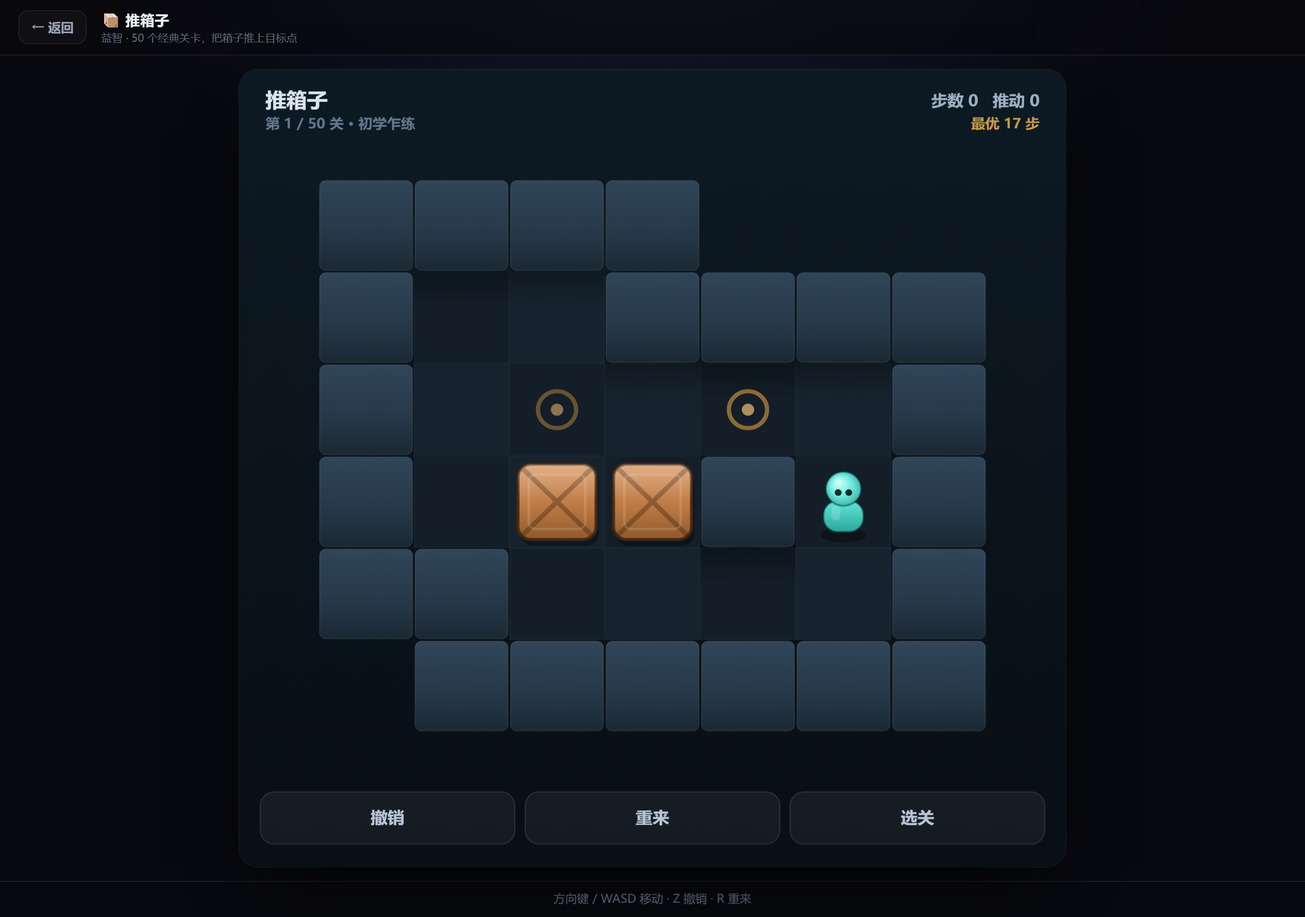
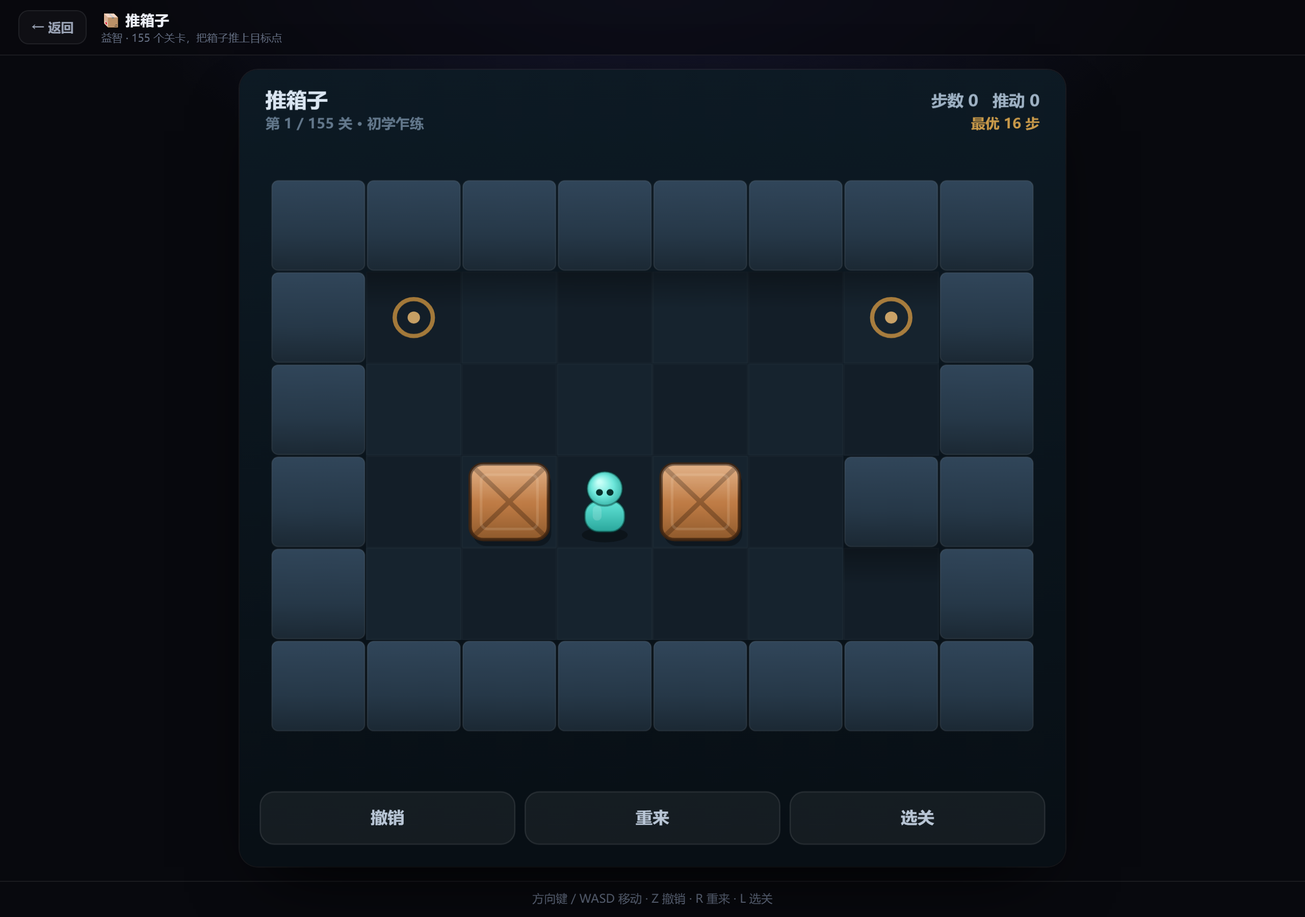
feat: 推箱子扩容至 155 关，选关面板支持分页
- 新增 105 关，由「逆向拉箱」算法生成（数学上保证可解），
  覆盖 2~4 箱、7x7~10x10 棋盘、含内部柱子变化
- 全部 155 关经 A*（曼哈顿启发）求解精确最优步数并标注，
  按最优步数升序重排，五档难度（初学乍练→大师试炼）各 31 关
- 选关面板重构：10x5 分页网格（4 页）+ 上一页/下一页按钮 + 方向键翻页
- 修复：Esc 在游戏页被 core.js 拦截返回大厅，选关快捷键改为 L；
  面板打开时 Esc/L 均可关闭
- 首页快捷入口与 README 文案同步 155 关

diff --git a/js/games/sokoban.js b/js/games/sokoban.js
@@ -1,60 +1,165 @@
 /* ==========================================================
-   sokoban.js — 推箱子（50 关）
+   sokoban.js — 推箱子（155 关）
    ========================================================== */
 (function () {
   "use strict";
 
   const SOKOBAN_LEVELS = [
-  {t:0,b:17,p:3,r:["####","#  ####","# . . #","# $$#@#","##    #"," ######"]},
-  {t:0,b:33,p:3,r:["#####","#   #","# @ #","# $$###","##. . #"," #    #"," ######"]},
-  {t:0,b:33,p:4,r:["####","# .#","#  ###","#*@  #","#  $ #","#  ###","####"]},
-  {t:0,b:47,p:4,r:[" ######","##    #","#  ## #","# # $ #","#  * .#","## #@##"," #   #"," #####"]},
-  {t:0,b:23,p:4,r:["#####","#   ###","#  $  #","##* . #"," #   @#"," ######"]},
-  {t:0,b:60,p:5,r:["  ####","  #  #","  #@ #","  #  #","### ####","#    * #","#  $   #","#####. #","    ####"]},
-  {t:0,b:56,p:6,r:["#######","#  *  #","#     #","## # ##"," #$@.#"," #   #"," #####"]},
-  {t:0,b:17,p:4,r:["  ####"," ##  #","##@$.##","# $$  #","# . . #","###   #","  #####"]},
-  {t:0,b:30,p:6,r:["#####","#.  ##","#@$$ #","##   #"," ##  #","  ##.#","   ###"]},
-  {t:0,b:37,p:6,r:["     ###","######@##","#    .* #","#   #   #","#####$# #","    #   #","    #####"]},
-  {t:1,b:97,p:6,r:["  ######","  # ..@#","  # $$ #","  ## ###","   # #","   # #","#### #","#    ##","# #   #","#   # #","###   #","  #####"]},
-  {t:1,b:50,p:6,r:["######","#   .#","# ## ##","#  $$@#","# #   #","#.  ###","#####"]},
-  {t:1,b:41,p:6,r:["########","#   .. #","#  @$$ #","##### ##","   #  #","   #  #","   #  #","   ####"]},
-  {t:1,b:34,p:6,r:["####","#  ###","#    ###","#  $*@ #","### .# #","  #    #","  ######"]},
-  {t:1,b:44,p:5,r:["####","#  ####","#.*$  #","# .$# #","## @  #"," #   ##"," #####"]},
-  {t:1,b:35,p:5,r:[" ####","##  ###","#     #","#.**$@#","#   ###","##  #"," ####"]},
-  {t:1,b:21,p:5,r:["####","#  ###","# $$ #","#... #","# @$ #","#   ##","#####"]},
-  {t:1,b:20,p:5,r:[" #####"," #   #","##   ##","# $$$ #","# .+. #","#######"]},
-  {t:1,b:25,p:5,r:["#####","# @ #","#...#","#$$$##","#    #","#    #","######"]},
-  {t:1,b:41,p:6,r:[" #####"," # @ #"," #   #","###$ #","# ...#","# $$ #","###  #","  ####"]},
-  {t:2,b:35,p:9,r:["# #####","  #   #","###$$@#","#   ###","#     #","# . . #","#######"]},
-  {t:2,b:37,p:6,r:[" #####","##. .##","# * * #","#  #  #","# $ $ #","## @ ##"," #####"]},
-  {t:2,b:85,p:9,r:["#####","#   ####","# # # .#","#    $ ###","### #$.  #","#   #@   #","# # ######","#   #","#####"]},
-  {t:2,b:47,p:7,r:["   ####","   #  #","   #@ #","####$.#","#   $.#","# # $.#","#    ##","######"]},
-  {t:2,b:23,p:7,r:["########","#      #","# .**$@#","#      #","#####  #","    ####"]},
-  {t:2,b:41,p:11,r:["  ####","###  ####","#     $ #","# #  #$ #","# . .#@ #","#########"]},
-  {t:2,b:37,p:8,r:["##########","#        #","# ##.### #","# # $$ . #","# . @$## #","#####    #","    ######"]},
-  {t:2,b:26,p:6,r:["  ####","### @#","#  $ #","#  *.#","#  *.#","#  $ #","###  #","  ####"]},
-  {t:2,b:71,p:11,r:["#######","#     #","#. .  #","# ## ##","#  $ #","###$ #","  #@ #","  #  #","  ####"]},
-  {t:2,b:83,p:12,r:["  #######","###     #","# $ $   #","# ### #####","# @ . .   #","#   ###   #","##### #####"]},
-  {t:3,b:76,p:13,r:["  ####","###  #####","#  $  @..#","# $    # #","### #### #","  #      #","  ########"]},
-  {t:3,b:89,p:11,r:["      #####","      #.  #","      #.# #","#######.# #","# @ $ $ $ #","# # # # ###","#       #","#########"]},
-  {t:3,b:25,p:6,r:[" #######"," #     #"," # .$. #","## $@$ #","#  .$. #","#      #","########"]},
-  {t:3,b:41,p:10,r:["#######","#. #  #","#  $  #","#. $#@#","#  $  #","#. #  #","#######"]},
-  {t:3,b:30,p:8,r:["  ####","###  ####","#       #","#@$***. #","#       #","#########"]},
-  {t:3,b:104,p:14,r:["     #####","     #   ##","     #    #"," ######   #","##     #. #","# $ $ @  ##","# ######.#","#        #","##########"]},
-  {t:3,b:78,p:14,r:["  ######","  #    #","  # ##@##","### # $ #","# ..# $ #","#       #","#  ######","####"]},
-  {t:3,b:64,p:15,r:["########","# @ #  #","#      #","#####$ #","    #  ###"," ## #$ ..#"," ## #  ###","    ####"]},
-  {t:3,b:47,p:15,r:["#####","#   ###","#. .  #","#   # #","## #  #"," #@$$ #"," #    #"," #  ###"," ####"]},
-  {t:3,b:64,p:12,r:["######","#  @ #","#  # ##","# .#  ##","# .$$$ #","# .#   #","####   #","   #####"]},
-  {t:4,b:52,p:17,r:["####","#. ##","#.@ #","#. $#","##$ ###"," # $  #"," #    #"," #  ###"," ####"]},
-  {t:4,b:61,p:18,r:["     ####","     # @#","     #  #","###### .#","#   $  .#","#  $$# .#","#    ####","###  #","  ####"]},
-  {t:4,b:71,p:21,r:["      ###","##### #.#","#   ###.#","#   $ #.#","# $  $  #","#####@# #","    #   #","    #####"]},
-  {t:4,b:82,p:21,r:["######","# @  #","# $# #","# $  #","# $ ##","### ####"," #  #  #"," #...  #"," #     #"," #######"]},
-  {t:4,b:77,p:19,r:[" ####","##  #","#. $#","#.$ #","#.$ #","#.$ #","#. $##","#   @#","##   #"," #####"]},
-  {t:4,b:107,p:29,r:["###### #####","#    ###   #","# $$     #@#","# $ #...   #","#   ########","#####"]},
-  {t:4,b:169,p:28,r:[" #########"," #       #","##@##### #","#  #   # #","#  #   $.#","#  ##$##.#","##$##  #.#","#   $  #.#","#   #  ###","########"]},
-  {t:4,b:100,p:37,r:[" ####"," #  ####"," #     ##","## ##   #","#. .# @$##","#   # $$ #","#  .#    #","##########"]},
-  {t:4,b:156,p:35,r:["####","#  ############","# $ $ $ $ $ @ #","# .....       #","###############"]},
-  {t:4,b:null,p:42,r:["############","#          #","# ####### @##","# #         #","# #  $   #  #","# $$ #####  #","###  # # ...#","  #### #    #","       ######"]}
+  {t:0,b:16,r:["########","#.    .#","#      #","# $@$ ##","#      #","########"]},
+  {t:0,b:16,r:["########","#      #","# @$  .#","# $    #","#      #","#  #  .#","########"]},
+  {t:0,b:16,r:["########","#  #   #","#      #","# $  $ #","# @    #","# . .  #","########"]},
+  {t:0,b:16,r:["#######","#     #","# $   #","# # $.#","#   @ #","# .   #","#######"]},
+  {t:0,b:16,r:["########","#      #","#  $ $@#","#     ##","#. .   #","########"]},
+  {t:0,b:16,r:["#######","#     #","# @   #","#.$   #","#  #$.#","#     #","#######"]},
+  {t:0,b:16,r:["########","#.   # #","#      #","# @$   #","# .  $ #","#      #","########"]},
+  {t:0,b:16,r:["########","#     .#","#      #","# $  $ #","#    @.#","#      #","########"]},
+  {t:0,b:16,r:["########","#  .  .#","# $    #","#    $@#","#  #   #","########"]},
+  {t:0,b:17,r:["####","#  ####","# . . #","# $$#@#","##    #"," ######"]},
+  {t:0,b:17,r:["  ####"," ##  #","##@$.##","# $$  #","# . . #","###   #","  #####"]},
+  {t:0,b:17,r:["########","#      #","#  $   #","#    $ #","#.   @ #","# .   ##","########"]},
+  {t:0,b:17,r:["#######","#     #","#  $@ #","#    .#","#  # $#","#  .  #","#######"]},
+  {t:0,b:17,r:["#######","#.    #","#   @ #","#.# $ #","#$    #","#     #","#######"]},
+  {t:0,b:17,r:["########","#    . #","#   $  #","# $ # .#","# @    #","########"]},
+  {t:0,b:17,r:["#######","#  .  #","#   $##","#     #","#  $@ #","#  .  #","#######"]},
+  {t:0,b:17,r:["########","#      #","#     $#","# $ #  #","# @ . .#","########"]},
+  {t:0,b:17,r:["########","#.  $@ #","#      #","# $# . #","#      #","########"]},
+  {t:0,b:17,r:["########","#      #","#  @$  #","#      #","#. . $ #","########"]},
+  {t:0,b:17,r:["#######","# . @ #","#   $.#","#     #","# $   #","# #   #","#######"]},
+  {t:0,b:18,r:["########","#     .#","# $    #","#   $@ #","##    .#","########"]},
+  {t:0,b:18,r:["#######","#     #","#.$#@ #","#   $ #","#     #","#  .  #","#######"]},
+  {t:0,b:18,r:["########","#.     #","#@$    #","#      #","#    $ #","#.     #","########"]},
+  {t:0,b:20,r:[" #####"," #   #","##   ##","# $$$ #","# .+. #","#######"]},
+  {t:0,b:20,r:["########","# .  $ #","#  @$  #","#.   # #","#      #","########"]},
+  {t:0,b:21,r:["####","#  ###","# $$ #","#... #","# @$ #","#   ##","#####"]},
+  {t:0,b:21,r:["#########","#    .  #","#.$  $@ #","#  #    #","#  . #. #","#  $    #","#       #","#     $ #","#       #","#########"]},
+  {t:0,b:22,r:["#########","##@    .#","# $   $ #","#       #","#      $#","#    .  #","#  .    #","#########"]},
+  {t:0,b:22,r:["#########","#   .   #","# $    .#","#  .#   #","#  $@ $ #","#      ##","#########"]},
+  {t:0,b:22,r:["########","#.     #","# .@ . #","# $$   #","#      #","# #  $ #","#      #","########"]},
+  {t:0,b:22,r:["#########","#       #","#  . $  #","# $ . . #","# @     #","# $    ##","#       #","#########"]},
+  {t:1,b:22,r:["########","#      #","#  $ $ #","#. #   #","#  .$@ #","#.     #","#      #","########"]},
+  {t:1,b:22,r:["########","# . @. #","#   $  #","# $  . #","#      #","# $    #","#      #","########"]},
+  {t:1,b:23,r:["#####","#   ###","#  $  #","##* . #"," #   @#"," ######"]},
+  {t:1,b:23,r:["########","#      #","# .**$@#","#      #","#####  #","    ####"]},
+  {t:1,b:23,r:["#########","#     . #","# $     #","#  #  . #","# $   $ #","#  .  @ #","#########"]},
+  {t:1,b:23,r:["#########","#       #","#    $  #","#  .    #","#     $ #","#    $@ #","#.     .#","#########"]},
+  {t:1,b:23,r:["#########","#     . #","#     $ #","# $   # #","#. $+   #","#       #","#########"]},
+  {t:1,b:23,r:["#########","#.      #","#  $@ $ #","#  .$ # #","#       #","#.    # #","#       #","#########"]},
+  {t:1,b:23,r:["########","#     .#","#     $#","#   $  #","# # @ .#","# $    #","#     .#","########"]},
+  {t:1,b:23,r:["#########","# .     #","#  #    #","#.  $ $ #","#   @  ##","#    .$ #","#       #","#########"]},
+  {t:1,b:23,r:["##########","#        #","#   @$. $#","##       #","#    $  .#","#.     . #","#      $ #","#  #     #","##########"]},
+  {t:1,b:23,r:["##########","#     #  #","# #    $ #","#   .   .#","#    $#$ #","#    @.  #","#   . $  #","#        #","##########"]},
+  {t:1,b:23,r:["##########","#      . #","#        #","#  .$@$  #","# .      #","# $  $   #","#    #   #","# .      #","##########"]},
+  {t:1,b:24,r:["#########","#       #","#.  + $ #","#  .$ # #","#     $ #","#       #","#########"]},
+  {t:1,b:24,r:["#########","#  .    #","# $   @ #","#     $ #","#  #    #","# # .   #","# $  .  #","#########"]},
+  {t:1,b:24,r:["#########","#       #","#       #","#.      #","#       #","# ##    #","# $  .$ #","#@$     #","# $ .  .#","#########"]},
+  {t:1,b:25,r:["#####","# @ #","#...#","#$$$##","#    #","#    #","######"]},
+  {t:1,b:25,r:[" #######"," #     #"," # .$. #","## $@$ #","#  .$. #","#      #","########"]},
+  {t:1,b:25,r:["#########","#       #","#   @$  #","#.      #","#  .    #","#     $ #","#   . $ #","#########"]},
+  {t:1,b:25,r:["#########","#       #","#  $    #","#  # $# #","#    @  #","#.      #","# .$   .#","#########"]},
+  {t:1,b:25,r:["#########","#      .#","#   $   #","#  #    #","#.$     #","#    .  #","#       #","# $@$   #","#    .  #","#########"]},
+  {t:1,b:25,r:["#########","# .     #","#       #","# $@ .  #","#  $ #$ #","#    #  #","# .     #","# $   . #","#########"]},
+  {t:1,b:25,r:["##########","##       #","#   .    #","#      $ #","# $.     #","#      $ #","# .     .#","#    @$  #","#        #","##########"]},
+  {t:1,b:26,r:["  ####","### @#","#  $ #","#  *.#","#  *.#","#  $ #","###  #","  ####"]},
+  {t:1,b:26,r:["#########","#      .#","# $  .  #","#       #","# $@$   #","#      .#","#########"]},
+  {t:1,b:26,r:["########","#. $@  #","#      #","#.#  # #","#    $ #","#.   $ #","########"]},
+  {t:1,b:26,r:["#########","#       #","# $# $@ #","#       #","#     . #","#   . $ #","#  .    #","#########"]},
+  {t:1,b:26,r:["#########","#       #","##$$    #","#  .   .#","#       #","# $     #","# @# .  #","#########"]},
+  {t:1,b:26,r:["#########","#   # .##","#  $    #","#      .#","#  $    #","#.      #","#$      #","#@$   . #","#########"]},
+  {t:1,b:26,r:["#########","#      .#","# . $ $ #","# $   . #","# @#   .#","#       #","# $     #","#       #","#########"]},
+  {t:1,b:26,r:["#########","#       #","# $ .$  #","##      #","#       #","#   .   #","#  $ .  #","#  @  $ #","#    .  #","#########"]},
+  {t:2,b:27,r:["#########","#       #","#  $ $ ##","#       #","#.      #","#   @$. #","#.     ##","#########"]},
+  {t:2,b:27,r:["#########","# .   $ #","#.    $ #","#     # #","# $     #","# @     #","#      .#","#########"]},
+  {t:2,b:27,r:["##########","#  .     #","# $ .    #","#    $   #","# $  . # #","##       #","#       .#","#   $    #","#   @ #  #","##########"]},
+  {t:2,b:27,r:["#########","#       #","#  $ #  #","#  .    #","#    .  #","#     $ #","# $$. + #","# #     #","#########"]},
+  {t:2,b:27,r:["##########","#        #","#        #","#        #","#  .   @ #","#   #  $##","#  .$ #  #","#    $   #","# $  .  .#","##########"]},
+  {t:2,b:28,r:["#########","#    . .#","# $     #","#   @$  #","#    .  #","# $     #","#       #","#########"]},
+  {t:2,b:28,r:["########","#      #","# $$ . #","# # .  #","#   $@.#","#      #","########"]},
+  {t:2,b:28,r:["#########","#       #","#$$     #","#.#    ##","#       #","#@$     #","#    .  #","# . . $ #","#       #","#########"]},
+  {t:2,b:28,r:["##########","#     .  #","#.   $  .#","#       ##","#        #","#    $   #","#  $ +$  #","#        #","##########"]},
+  {t:2,b:28,r:["##########","#        #","# #      #","#.     # #","#    .   #","#  . $ $ #","#      @ #","#   $$   #","#.      ##","##########"]},
+  {t:2,b:28,r:["#########","#       #","# $$  . #","#      .#","#     $ #","#  +$   #","#   # # #","# .     #","#########"]},
+  {t:2,b:29,r:["#########","#       #","#   .#$ #","#    #  #","#@$     #","#  .    #","#.    $ #","#########"]},
+  {t:2,b:29,r:["########","#   .$ #","# .  # #","# $  @ #","# #  $ #","#      #","#   .  #","########"]},
+  {t:2,b:29,r:["#########","#      .#","# $   . #","#     $@#","#      $#","# # $ . #","#.  # # #","#       #","#########"]},
+  {t:2,b:29,r:["##########","#.       #","# # . $  #","#.       #","#$.      #","# $      #","#      $@#","#        #","##########"]},
+  {t:2,b:29,r:["##########","#        #","#  .     #","# $      #","#   $ $  #","# # @   .#","# .  $   #","#       .#","##########"]},
+  {t:2,b:30,r:["#####","#.  ##","#@$$ #","##   #"," ##  #","  ##.#","   ###"]},
+  {t:2,b:30,r:["  ####","###  ####","#       #","#@$***. #","#       #","#########"]},
+  {t:2,b:30,r:["#########","#  #    #","# $ $   #","#     . #","#       #","#   $   #","#   +  .#","#########"]},
+  {t:2,b:30,r:["#########","#  .    #","#     $ #","#       #","#.   .# #","#       #","#  @$ $ #","#       #","#########"]},
+  {t:2,b:30,r:["########","#     ##","#    $ #","#      #","#.#    #","#      #","# @$ $ #","#. .   #","########"]},
+  {t:2,b:30,r:["#########","# .     #","# $   $ #","#       #","# .   # #","#       #","#  #@$  #","# .     #","#########"]},
+  {t:2,b:30,r:["########","#    . #","# $   .#","# @  . #","#      #","# $$   #","#      #","#     ##","########"]},
+  {t:2,b:30,r:["#########","#       #","#  $  # #","#      $#","#     .@#","#       #","#    $. #","##     .#","#########"]},
+  {t:2,b:30,r:["#########","#      .#","#       #","#  #  . #","#  $    #","#       #","# $ $ # #","# @   . #","#########"]},
+  {t:2,b:30,r:["########","#   #  #","#    $ #","#   $  #","#   .  #","#  $ # #","#  @   #","#.   . #","########"]},
+  {t:2,b:30,r:["########","#      #","##$  $@#","#    #.#","#    . #","#      #","#      #","# $   .#","########"]},
+  {t:2,b:30,r:["#########","#       #","# $# $  #","#       #","#      .#","#       #","# @$   .#","#    .  #","#########"]},
+  {t:2,b:30,r:["#########","#       #","#. .$@  #","#    $# #","#       #","#.# $   #","#       #","#########"]},
+  {t:2,b:30,r:["#########","#       #","# $ #   #","#     $ #","#     @ #","#       #","#.   .$ #","#   .   #","#########"]},
+  {t:2,b:30,r:["#########","# .    .#","#     # #","#       #","#   $ $ #","#     . #","#       #","#   $@ $#","#.      #","#########"]},
+  {t:3,b:31,r:["########","# . . .#","#      #","#    $ #","#    @##","#      #","# $  $ #","#      #","########"]},
+  {t:3,b:31,r:["#########","#    .@ #","#     $ #","#       #","#  .#   #","# $$    #","# #  .  #","#########"]},
+  {t:3,b:31,r:["########","# @.  .#","# $    #","#      #","# $   .#","#  #   #","# $    #","#      #","########"]},
+  {t:3,b:31,r:["#########","#       #","#  $   $#","##      #","#    $  #","#    @  #","#   .  .#","#.      #","#########"]},
+  {t:3,b:32,r:["#########","#     # #","# $  $@ #","#       #","# $ .  .#","#       #","#    .  #","#########"]},
+  {t:3,b:33,r:["#####","#   #","# @ #","# $$###","##. . #"," #    #"," ######"]},
+  {t:3,b:33,r:["####","# .#","#  ###","#*@  #","#  $ #","#  ###","####"]},
+  {t:3,b:33,r:["########","#      #","#$$#   #","#   #$ #","#    @ #","#     .#","#      #","#.  .  #","########"]},
+  {t:3,b:33,r:["#########","#       #","#@$    .#","#   #.  #","#    # .#","# $ $   #","#       #","#########"]},
+  {t:3,b:33,r:["#########","#       #","#. # $ ##","#  .  $ #","#.      #","#   @$  #","#       #","#########"]},
+  {t:3,b:33,r:["#########","#     # #","#     $ #","#.   #$ #","# @     #","# $.    #","#       #","#  .    #","#########"]},
+  {t:3,b:33,r:["#########","#       #","#     $ #","#       #","#.      #","#   @$  #","#.    # #","# . $   #","#########"]},
+  {t:3,b:33,r:["##########","#        #","# $   .$ #","#  .     #","# @$    ##","#      $ #","#     .  #","#       .#","##########"]},
+  {t:3,b:34,r:["####","#  ###","#    ###","#  $*@ #","### .# #","  #    #","  ######"]},
+  {t:3,b:34,r:["#########","#       #","#$ $ #$ #","#   .  .#","#.   .# #","#@$     #","#       #","#########"]},
+  {t:3,b:34,r:["#########","#       #","#    $@ #","#   .   #","#.      #","# . $   #","#     # #","#.  $ $ #","#       #","#########"]},
+  {t:3,b:34,r:["##########","#     # .#","# $.     #","#        #","#        #","#        #","#. .$    #","#     $@$#","#   #    #","##########"]},
+  {t:3,b:35,r:[" ####","##  ###","#     #","#.**$@#","#   ###","##  #"," ####"]},
+  {t:3,b:35,r:["# #####","  #   #","###$$@#","#   ###","#     #","# . . #","#######"]},
+  {t:3,b:35,r:["########","#   @  #","#   $  #","#  . #.#","#.     #","# $  $##","#      #","########"]},
+  {t:3,b:35,r:["##########","#      . #","#$ $@    #","#.    .  #","#      # #","#      . #","#  $ $   #","#        #","##########"]},
+  {t:3,b:35,r:["#########","#       #","# $  $ $#","##      #","#      .#","#  +$.  #","#       #","#     #.#","#  #    #","#########"]},
+  {t:3,b:35,r:["#########","#  # .  #","#  .    #","#      .#","# $  # ##","#     $ #","# $ @$  #","#.      #","#########"]},
+  {t:3,b:36,r:["#########","#       #","#  $@ $ #","# #     #","#     $ #","#  .    #","#.      #","#  .#   #","#########"]},
+  {t:3,b:36,r:["#########","#       #","# $ # $ #","#       #","#       #","#     $ #","#.    @ #","# . .  ##","#########"]},
+  {t:3,b:36,r:["#########","#  .    #","# @  .#$#","# $     #","##     .#","#       #","#       #","#   $ $ #","#.      #","#########"]},
+  {t:3,b:37,r:["     ###","######@##","#    .* #","#   #   #","#####$# #","    #   #","    #####"]},
+  {t:3,b:37,r:[" #####","##. .##","# * * #","#  #  #","# $ $ #","## @ ##"," #####"]},
+  {t:3,b:37,r:["##########","#        #","# ##.### #","# # $$ . #","# . @$## #","#####    #","    ######"]},
+  {t:3,b:39,r:["##########","#.     $ #","#      $ #","#      @ #","#      $ #","#. #     #","#  .   . #","#    $   #","#        #","##########"]},
+  {t:3,b:41,r:["########","#   .. #","#  @$$ #","##### ##","   #  #","   #  #","   #  #","   ####"]},
+  {t:4,b:41,r:[" #####"," # @ #"," #   #","###$ #","# ...#","# $$ #","###  #","  ####"]},
+  {t:4,b:41,r:["  ####","###  ####","#     $ #","# #  #$ #","# . .#@ #","#########"]},
+  {t:4,b:41,r:["#######","#. #  #","#  $  #","#. $#@#","#  $  #","#. #  #","#######"]},
+  {t:4,b:44,r:["####","#  ####","#.*$  #","# .$# #","## @  #"," #   ##"," #####"]},
+  {t:4,b:44,r:["##########","#        #","#  $ # $ #","#        #","#.   @$  #","#  .     #","#   #  $ #","#   .    #","# .      #","##########"]},
+  {t:4,b:47,r:[" ######","##    #","#  ## #","# # $ #","#  * .#","## #@##"," #   #"," #####"]},
+  {t:4,b:47,r:["   ####","   #  #","   #@ #","####$.#","#   $.#","# # $.#","#    ##","######"]},
+  {t:4,b:47,r:["#####","#   ###","#. .  #","#   # #","## #  #"," #@$$ #"," #    #"," #  ###"," ####"]},
+  {t:4,b:50,r:["######","#   .#","# ## ##","#  $$@#","# #   #","#.  ###","#####"]},
+  {t:4,b:52,r:["####","#. ##","#.@ #","#. $#","##$ ###"," # $  #"," #    #"," #  ###"," ####"]},
+  {t:4,b:56,r:["#######","#  *  #","#     #","## # ##"," #$@.#"," #   #"," #####"]},
+  {t:4,b:60,r:["  ####","  #  #","  #@ #","  #  #","### ####","#    * #","#  $   #","#####. #","    ####"]},
+  {t:4,b:61,r:["     ####","     # @#","     #  #","###### .#","#   $  .#","#  $$# .#","#    ####","###  #","  ####"]},
+  {t:4,b:64,r:["########","# @ #  #","#      #","#####$ #","    #  ###"," ## #$ ..#"," ## #  ###","    ####"]},
+  {t:4,b:64,r:["######","#  @ #","#  # ##","# .#  ##","# .$$$ #","# .#   #","####   #","   #####"]},
+  {t:4,b:71,r:["#######","#     #","#. .  #","# ## ##","#  $ #","###$ #","  #@ #","  #  #","  ####"]},
+  {t:4,b:71,r:["      ###","##### #.#","#   ###.#","#   $ #.#","# $  $  #","#####@# #","    #   #","    #####"]},
+  {t:4,b:76,r:["  ####","###  #####","#  $  @..#","# $    # #","### #### #","  #      #","  ########"]},
+  {t:4,b:77,r:[" ####","##  #","#. $#","#.$ #","#.$ #","#.$ #","#. $##","#   @#","##   #"," #####"]},
+  {t:4,b:78,r:["  ######","  #    #","  # ##@##","### # $ #","# ..# $ #","#       #","#  ######","####"]},
+  {t:4,b:82,r:["######","# @  #","# $# #","# $  #","# $ ##","### ####"," #  #  #"," #...  #"," #     #"," #######"]},
+  {t:4,b:83,r:["  #######","###     #","# $ $   #","# ### #####","# @ . .   #","#   ###   #","##### #####"]},
+  {t:4,b:85,r:["#####","#   ####","# # # .#","#    $ ###","### #$.  #","#   #@   #","# # ######","#   #","#####"]},
+  {t:4,b:89,r:["      #####","      #.  #","      #.# #","#######.# #","# @ $ $ $ #","# # # # ###","#       #","#########"]},
+  {t:4,b:97,r:["  ######","  # ..@#","  # $$ #","  ## ###","   # #","   # #","#### #","#    ##","# #   #","#   # #","###   #","  #####"]},
+  {t:4,b:100,r:[" ####"," #  ####"," #     ##","## ##   #","#. .# @$##","#   # $$ #","#  .#    #","##########"]},
+  {t:4,b:104,r:["     #####","     #   ##","     #    #"," ######   #","##     #. #","# $ $ @  ##","# ######.#","#        #","##########"]},
+  {t:4,b:107,r:["###### #####","#    ###   #","# $$     #@#","# $ #...   #","#   ########","#####"]},
+  {t:4,b:156,r:["####","#  ############","# $ $ $ $ $ @ #","# .....       #","###############"]},
+  {t:4,b:169,r:[" #########"," #       #","##@##### #","#  #   # #","#  #   $.#","#  ##$##.#","##$##  #.#","#   $  #.#","#   #  ###","########"]},
+  {t:4,b:178,r:["############","#          #","# ####### @##","# #         #","# #  $   #  #","# $$ #####  #","###  # # ...#","  #### #    #","       ######"]}
 ];
 const TIERS = ["初学乍练", "渐入佳境", "巧思布局", "连环推演", "大师试炼"];
 
@@ -65,7 +170,7 @@ const TIERS = ["初学乍练", "渐入佳境", "巧思布局", "连环推演", "
     name: "推箱子",
     cat: "puzzle",
     icon: "📦",
-    desc: "50 个经典关卡，把箱子推上目标点",
+    desc: "155 个关卡，把箱子推上目标点",
     tip: "方向键 / WASD 移动 · Z 撤销 · R 重来",
     w: 640, h: 640,
     noScore: true,
@@ -116,7 +221,7 @@ const TIERS = ["初学乍练", "渐入佳境", "巧思布局", "连环推演", "
         GS.data.sokobanIdx = idx;
         GS.save();
         layout();
-        api.hint("方向键 / WASD 移动 · Z 撤销 · R 重来");
+        api.hint("方向键 / WASD 移动 · Z 撤销 · R 重来 · L 选关");
       }
 
       function layout() {
@@ -417,19 +522,33 @@ const TIERS = ["初学乍练", "渐入佳境", "巧思布局", "连环推演", "
         }
       }
 
+      const PANEL_COLS = 10, PANEL_ROWS = 5, PER_PAGE = PANEL_COLS * PANEL_ROWS;
+      let panelPage = 0;
+
+      function pagerRects() {
+        const y = 402, w = 96, h = 34, gap = 148;
+        return {
+          prev: { x: W / 2 - gap - w / 2, y, w, h },
+          next: { x: W / 2 + gap - w / 2, y, w, h }
+        };
+      }
+
       function drawPanel() {
         ctx.fillStyle = "rgba(6,10,16,.86)";
         ctx.fillRect(0, 0, W, H);
-        api.text("选择关卡", W / 2, 54, { size: 18, weight: 800, color: "#e8eef6" });
+        api.text("选择关卡", W / 2, 48, { size: 18, weight: 800, color: "#e8eef6" });
         api.text("已完成 " + (GS.data.sokobanDone ? Object.keys(GS.data.sokobanDone).length : 0) + " / " + SOKOBAN_LEVELS.length,
-          W / 2, 78, { size: 11, color: "#6f8296" });
+          W / 2, 70, { size: 11, color: "#6f8296" });
 
-        const cols = 10, cell = 44, gap = 7;
+        const cols = PANEL_COLS, cell = 42, gap = 7;
         const gridW = cols * cell + (cols - 1) * gap;
         const x0 = (W - gridW) / 2;
-        const y0 = 100;
-        for (let i = 0; i < SOKOBAN_LEVELS.length; i++) {
-          const r = Math.floor(i / cols), c = i % cols;
+        const y0 = 90;
+        const start = panelPage * PER_PAGE;
+        for (let k = 0; k < PER_PAGE; k++) {
+          const i = start + k;
+          if (i >= SOKOBAN_LEVELS.length) break;
+          const r = Math.floor(k / cols), c = k % cols;
           const x = x0 + c * (cell + gap), y = y0 + r * (cell + gap + 6);
           const done = GS.data.sokobanDone && GS.data.sokobanDone[i];
           api.rr(x, y, cell, cell, 9);
@@ -439,15 +558,37 @@ const TIERS = ["初学乍练", "渐入佳境", "巧思布局", "连环推演", "
           ctx.lineWidth = i === idx ? 1.6 : 1;
           ctx.stroke();
           api.text(String(i + 1), x + cell / 2, y + cell / 2, {
-            size: 13, weight: 700,
+            size: 12.5, weight: 700,
             color: i === idx ? "#fbbf24" : done ? "#7fe3d8" : "#93a3b6"
           });
         }
-        const by = y0 + 5 * (cell + gap + 6) + 10;
-        api.text("点击任意关卡开始 · 点击空白处返回", W / 2, by + 8, { size: 11, color: "#5d6e82" });
-        panelCloseY = by;
+
+        const pages = Math.max(1, Math.ceil(SOKOBAN_LEVELS.length / PER_PAGE));
+        const pr = pagerRects();
+        const drawPg = (r, label, enabled) => {
+          api.rr(r.x, r.y, r.w, r.h, 10);
+          ctx.fillStyle = enabled ? "rgba(255,255,255,.07)" : "rgba(255,255,255,.03)";
+          ctx.fill();
+          ctx.strokeStyle = enabled ? "rgba(255,255,255,.16)" : "rgba(255,255,255,.06)";
+          ctx.lineWidth = 1; ctx.stroke();
+          api.text(label, r.x + r.w / 2, r.y + r.h / 2 + 1, {
+            size: 12, weight: 600, color: enabled ? "#c8d5e4" : "#4d5b6c"
+          });
+        };
+        drawPg(pr.prev, "‹ 上一页", panelPage > 0);
+        drawPg(pr.next, "下一页 ›", panelPage < pages - 1);
+        api.text((panelPage + 1) + " / " + pages, W / 2, pr.prev.y + pr.prev.h / 2 + 1,
+          { size: 12, weight: 700, color: "#9fb2c4" });
+
+        api.text("点击关卡开始 · 点击空白处返回", W / 2, pr.prev.y + pr.prev.h + 20, { size: 11, color: "#5d6e82" });
+        panelCloseY = pr.prev.y + pr.prev.h + 8;
       }
       let panelCloseY = 0;
+
+      function openPanel() {
+        panelPage = Math.floor(idx / PER_PAGE);
+        panel = true;
+      }
 
       function drawWin() {
         ctx.fillStyle = "rgba(5,10,14,.8)";
@@ -491,7 +632,10 @@ const TIERS = ["初学乍练", "渐入佳境", "巧思布局", "连环推演", "
 
       api.onKey((k) => {
         if (panel) {
-          if (k === "Escape") panel = false;
+          const pages = Math.max(1, Math.ceil(SOKOBAN_LEVELS.length / PER_PAGE));
+          if (k === "Escape" || k === "l" || k === "L") panel = false;
+          else if (k === "ArrowLeft") panelPage = Math.max(0, panelPage - 1);
+          else if (k === "ArrowRight") panelPage = Math.min(pages - 1, panelPage + 1);
           return;
         }
         if (won) {
@@ -506,18 +650,23 @@ const TIERS = ["初学乍练", "渐入佳境", "巧思布局", "连环推演", "
         if (map[k]) { move(map[k][0], map[k][1]); return; }
         if (k === "z" || k === "Z") undo();
         else if (k === "r" || k === "R") load(idx);
-        else if (k === "Escape") panel = !panel;
+        else if (k === "l" || k === "L") { if (panel) panel = false; else openPanel(); }
       });
 
       api.onDown((p) => {
         if (panel) {
-          const cols = 10, cell = 44, gap = 7;
+          const cols = PANEL_COLS, cell = 42, gap = 7;
           const gridW = cols * cell + (cols - 1) * gap;
-          const x0 = (W - gridW) / 2, y0 = 100;
+          const x0 = (W - gridW) / 2, y0 = 90;
+          const pr = pagerRects();
+          const inRect = (r) => p.x >= r.x && p.x <= r.x + r.w && p.y >= r.y && p.y <= r.y + r.h;
+          const pages = Math.max(1, Math.ceil(SOKOBAN_LEVELS.length / PER_PAGE));
+          if (inRect(pr.prev)) { if (panelPage > 0) panelPage--; return; }
+          if (inRect(pr.next)) { if (panelPage < pages - 1) panelPage++; return; }
           const c = Math.floor((p.x - x0) / (cell + gap));
           const r = Math.floor((p.y - y0) / (cell + gap + 6));
-          if (c >= 0 && c < cols && r >= 0 && r < 5) {
-            const i = r * cols + c;
+          if (c >= 0 && c < cols && r >= 0 && r < PANEL_ROWS) {
+            const i = panelPage * PER_PAGE + r * cols + c;
             if (i < SOKOBAN_LEVELS.length) { panel = false; load(i); return; }
           }
           if (p.y > panelCloseY) panel = false;
@@ -532,7 +681,7 @@ const TIERS = ["初学乍练", "渐入佳境", "巧思布局", "连环推演", "
         const k = hitBtn(p);
         if (k === "undo") { undo(); return; }
         if (k === "restart") { load(idx); return; }
-        if (k === "levels") { panel = true; return; }
+        if (k === "levels") { openPanel(); return; }
         drag = { x: p.x, y: p.y };
       });
 
@@ -554,7 +703,7 @@ const TIERS = ["初学乍练", "渐入佳境", "巧思布局", "连环推演", "
       function nextLevel() {
         completeLevel();
         if (idx < SOKOBAN_LEVELS.length - 1) load(idx + 1);
-        else { panel = true; won = false; }
+        else { won = false; openPanel(); }
       }
 
       /* ---------- 主循环 ---------- */

diff --git a/js/core.js b/js/core.js
@@ -92,7 +92,7 @@
           <div class="hero-actions">
             <button class="btn-main" id="hero-random">🎲 随机来一局</button>
             ${recent ? `<a class="btn-ghost" href="#/play/${recent.id}">▶ 继续 ${recent.name}</a>` : ""}
-            <a class="btn-ghost" href="#/play/sokoban">📦 推箱子 50 关</a>
+            <a class="btn-ghost" href="#/play/sokoban">📦 推箱子 155 关</a>
           </div>
         </div>
         <div class="hero-art" aria-hidden="true">

diff --git a/README.md b/README.md
@@ -159,7 +159,7 @@ npx http-server -p 8080
 │   ├── engine.js         # Canvas 游戏引擎（循环 / 输入 / 音效 / 计分）
 │   ├── core.js           # 大厅、路由（hash）、游戏页框架
 │   └── games/            # 游戏包（15 个文件，210 款游戏）
-│       ├── sokoban.js    # 推箱子（50 关）
+│       ├── sokoban.js    # 推箱子（155 关）
 │       ├── puzzle.js / puzzle2.js / vol-b.js   # 益智
 │       ├── arcade.js / arcade2.js / vol-a.js   # 街机
 │       ├── casual.js / vol-d.js                # 休闲
